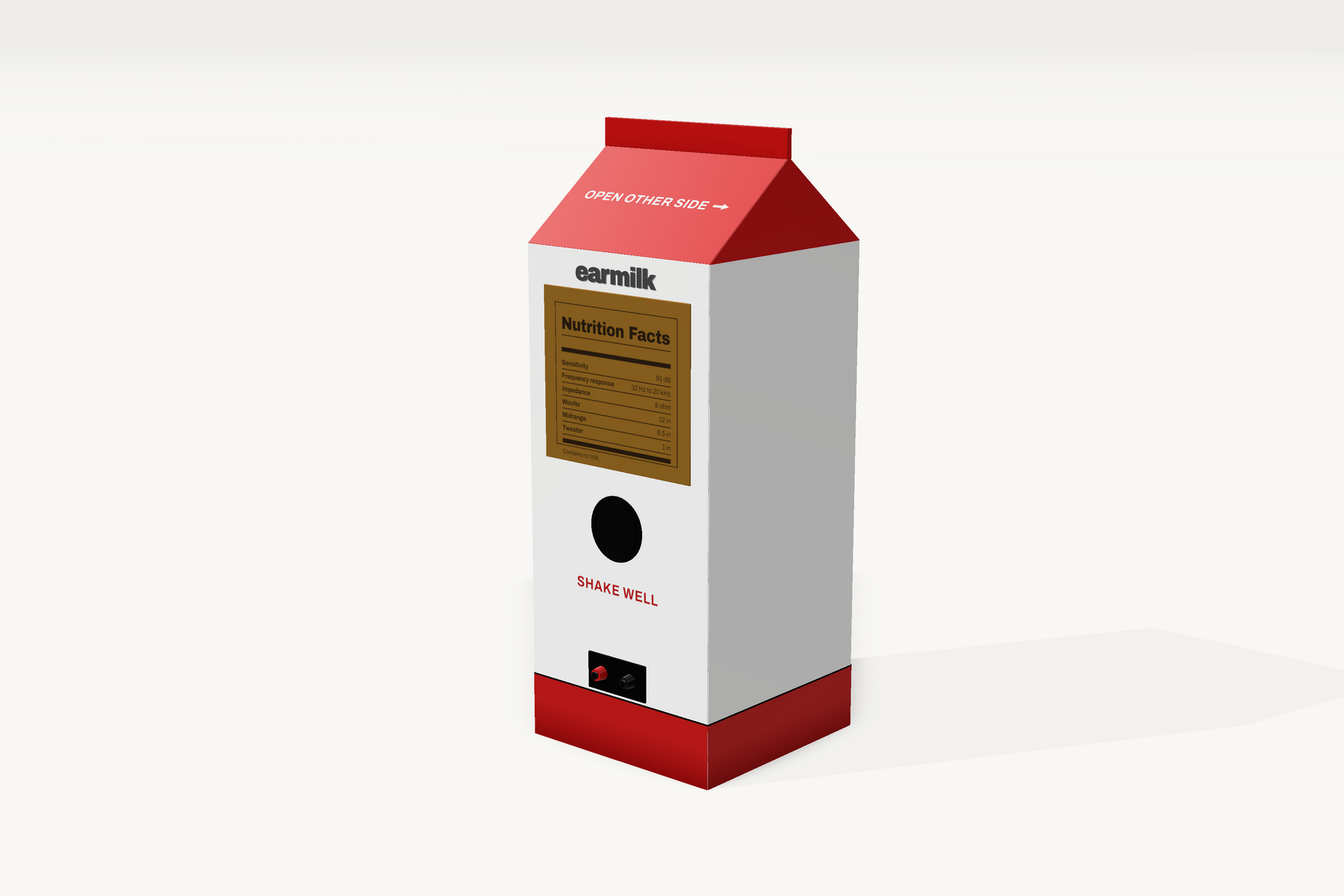
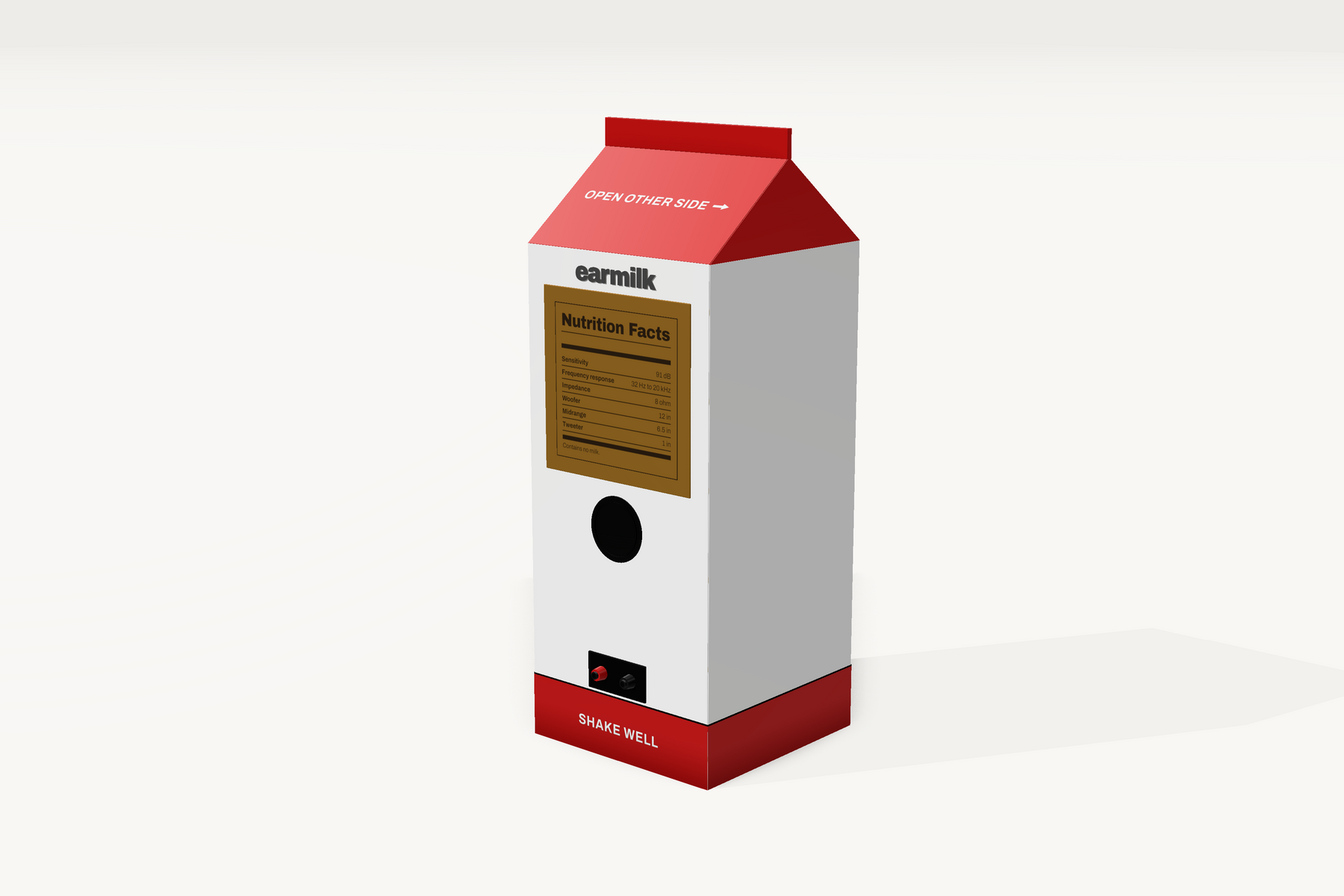
v11: SHAKE WELL on the plinth, the Facts footnote inside its border, and the camera carries
Only OPEN OTHER SIDE and SHAKE WELL stay; SHAKE WELL moves onto the plinth's back face, reversed in the body colour. The engraved panel is 266 x 260 so "Contains no milk." sits inside the border with 14 mm padding all round, and the bronze plate grows with it. The hero pair toed in from a lower, longer camera; the window mullion gone from both rooms; the close-up aimed clear of the top lip and the mid's flange; the crate camera lower and its base board's end-grain fringe fixed. No critic round: the cap for this look is reached. Canvas at version 14.

Claude-Session: https://claude.ai/code/session_016Hs9fK3h2VwVeRXpa18b1z

Changed region(s): [[0.4044, 0.3392, 0.5289, 0.555], [0.4356, 0.8017, 0.4978, 0.8325], [0.4356, 0.6475, 0.4978, 0.6783]]

diff --git a/prompts/shot-04-v11.md b/prompts/shot-04-v11.md
@@ -1,0 +1,41 @@
+# Shot 04 · Back · v11
+
+v11: SHAKE WELL moves onto the plinth's back face, reversed in white; the Facts border now encloses "Contains no milk." with 14 mm padding all round, and the bronze plate grows to match (z 484 to 796). Nothing else printed. No critic round.
+v10: the Nutrition Facts are an engraved bronze plate on the finish (the Facts plus a 26 mm margin, 3 mm thick, 1.5 mm proud, the engraving dark with patina); the wordmark above it is the same cast metal letters as the front; SHAKE WELL sits under the port in the accent colour and OPEN OTHER SIDE on the back slope, both spec now. No critic round: spec choices, and the cap for this look is reached.
+v9: the bare birch field is now just the Nutrition Facts panel with a 26 mm margin all round (x 36 to 354, z 504 to 796); the port, the binding posts and the engraved wordmark sit on the white finish outside it, the wordmark at baseline z 812, the post plate at z 150 so it clears the plinth's shadow line. The full-height field stays available as an option with its bottom lifted to z 140 so its margin above the plinth matches its sides. No critic round: a spec choice for the owner, and the cap for this look is reached.
+v8: the plate is gone. The wordmark on the plinth is cast metal letters standing on the lacquer with no plate behind them, the way the lettering sits on a La Marzocco machine: 44 mm type size, 2.5 mm proud, polished faces, satin sides. Nothing else changed.
+v7: after critic round 1 on v6 (shot 01's note that the badge read as grey type on a grey rectangle at room distance). The badge is now a chrome rim around a dark inset field with polished raised letters, the way a cast espresso-machine badge reads; nothing else changed.
+v6: the 2026-10-02 direction. The finished white back around the bare birch panel (now z 113 to 830), the wordmark engraved above the Nutrition Facts, the red plinth across the bottom with the shadow line. Camera and light as v5.
+v5: no change from v4. Straight-on at mid-height is the brief; the round 4 asks are surfaces and a contact core, which go to the photoreal pass.
+v4: the locked look from the 2026-10-01 amendments: lids in the print colour on Whole, 2% and Skim, a printed 110 mm base band carrying the wordmark on the front and the right side, nothing printed under the gable. The stand and the owner's panel are optional and not in this shot. The band shows on the back only as the 40 mm frame below the window.
+v3: after critic round 2. Contact decal tightened to the footprint, occlusion pass, glossier board, crimp lines on the fin, 2x supersampling so the engraved rows resolve. Straight-on is the brief.
+v2: after critic round 1. Camera raised to look slightly down so the gable's back slope shows and the carton has volume; key from upper right; contact shadow; metal response on the port flange and the posts.
+v1: first brief, from the README shot list.
+
+**Proves:** the bare birch window inside the sleeve frame, with the engraved Nutrition Facts above the port and the posts below.
+
+## Scene
+- One speaker, **Whole**, seen from directly behind.
+- Even, soft light so the engraving is legible; a little rake so the wood's surface reads as wood. The README asks for birch end-grain at the back window.
+
+## Camera
+- Straight on from behind, centred on the window, camera at about the window's centre height (`z` ≈ 420 mm).
+- A long lens look (85 to 100 mm) so the back panel stays rectangular and the panel's text is undistorted.
+
+## Must show
+- The sleeve's back frame (white board) around the birch window: 26 mm sides, 40 mm bottom, 62 mm top.
+- The engraved panel, 266 × 240 mm with its top at 770 mm, legible: copy and proportions in `copy/label.md`, engraved version.
+- The round port, ø 100 at 405 mm.
+- The binding post plate, 128 × 64 at 144 mm, with red and black posts.
+- The birch face colour #EAD8B0 with engraving in #6B5232.
+
+## Must not
+- Anything in the list in `prompts/README.md`.
+- Use the printed label's longer copy on the engraving.
+
+## Text-to-image form
+Constant block, then: The back of one of them, straight on. The white printed board is a frame around a large bare Baltic birch window; engraved into the wood near the top is a small Nutrition Facts panel in dark brown, with a round port below it and a plate with red and black binding posts near the floor. Even soft studio light, a slight rake across the wood grain, long lens. Photoreal, matte board.
+
+## Acceptance
+- The engraved panel is readable at the render's size and matches the engraved copy.
+- The frame margins and the window proportions match `spec/geometry.md`.

diff --git a/README.md b/README.md
@@ -45,7 +45,8 @@ Made on the v4 and v5 renders. They stand with the Decisions above and replace t
 - **Shots.** 07 (sleeve swap) is retired. 02 (two rooms) loses the swap that was its point; it is rendered meanwhile with the same Whole in both rooms and needs a new brief. In 03 the fold of the lid's die-cut becomes the finish's edge at the mouth; in 04 the sleeve frame becomes the finished back around the birch panel.
 - Prices: `[PAIR PRICE]` and `[CRATE PRICE]` stay open. `[SLEEVE PRICE]` and `[STAND PRICE]` are gone.
 - **Back panel, contained** *(later the same day)*. The bare birch field is the Nutrition Facts panel plus a 26 mm margin all round: `x` 36 → 354, `z` 504 → 796. The port, the binding posts and the engraved wordmark sit on the finish outside it; the wordmark is engraved through the lacquer and ink-filled in the panel's brown, baseline at `z` 812; the post plate moves up to `z` 150 so it clears the plinth's shadow line. The full-height field (`x` 26 → 364, `z` 140 → 830, the same 26 margin at the sides and above the plinth) is kept as an option; both are rendered in `explore/2026-10-02/r4-*`.
-- **Marks** *(later the same day)*. Two carton lines are spec: OPEN OTHER SIDE with its arrow on the back slope of the gable, 27 mm caps in the gable's other colour (board colour on the white flavours, accent on Chocolate and Oat), and SHAKE WELL on the back under the port, 26 mm caps in the accent colour. Everything else in `explore/` stays a proposal.
+- **Marks** *(later the same day)*. Two carton lines are spec and nothing else is printed: OPEN OTHER SIDE with its arrow on the back slope of the gable, 27 mm caps in the gable's other colour (board colour on the white flavours, accent on Chocolate and Oat), and SHAKE WELL on the plinth's back face, 26 mm caps reversed in the body colour. The other proposals in `explore/` are dropped.
+- **Facts border** *(later the same day)*. The engraved panel is 266 × 260: "Contains no milk." sits inside the border with the same 14 mm padding as every other side. The bronze plate grows with it to `z` 484 → 796.
 - **Bronze plate** *(later the same day)*. The Nutrition Facts are an engraved bronze plate, not bare birch: the Facts panel plus a 26 mm margin (x 36 → 354, z 504 → 796), 3 mm thick, 1.5 mm proud of the finish, the engraving dark with patina. The wordmark above it is the same cast metal letters as the front (44 mm, 2.5 mm proud, centred at z 826). Bare birch now shows only in the section views.
 - **Shot 02, rebriefed.** The two rooms are the same pair in two homes, years apart: a bright first apartment, then a darker older house. The point is no longer the swap but that the speaker outlives its rooms, the finish fixed and the birch back ageing with the house.
 
@@ -58,7 +59,7 @@ Floorstander — square plan, gable-top.
 - Front drivers (centers from floor, on the baffle centerline): 12 in woofer at 290 (frame ø ~310); 6.5 in mid at 690 (frame ø ~170).
 - Tweeter: 1 in dome with a small faceplate (≤ 62 mm). Faceplate plane is 170 back from the front face; dome center height 903.5.
 - Bowl: mouth is an ellipse on the front slope panel, 211 wide × 118 long along the slope, centered 79 up the 246 slope (from 20 to 138). Throat ø 66 around the faceplate at the 170 setback. Surface is a smooth loft from mouth ellipse to throat circle — no flats, no edges. As drawn the lower lip holds the pattern to ~12° below the tweeter axis and the upper lip to ~37° above. Deeper bowl = narrower; wider mouth = wider.
-- Back (bare birch window inside the sleeve frame): window x 26→364, z 40→798. Engraved Nutrition Facts panel 266 wide × 240 tall, top at z 770. Round port ø ~100 centered at z 405. Binding posts on a 128 × 64 plate centered at z 144.
+- Back (bare birch window inside the sleeve frame): window x 26→364, z 40→798. Engraved Nutrition Facts panel 266 wide × 240 tall, top at z 770 *(266 × 260 since 2026-10-02)*. Round port ø ~100 centered at z 405. Binding posts on a 128 × 64 plate centered at z 144.
 - Sleeve: tube 390 × 390 × 860 (open top and bottom, die-cut for woofer and mid, back panel is a frame), plus a lid covering gable + fin, die-cut at the bowl mouth. Both lock at the back seam. Board: heavy carton board / SBS, target ~1.2–1.5 mm; whether it holds a crisp fold at this size is an open test. *Amended 2026-10-02: no sleeve. The outer dimensions stay; the skin is the finish.*
 
 Pint — 100 × 100 plan, body 200, gable 35, fin 12. Single full-range ø ~68 at 95; tiny bowl at the top. Crate 340 × 250 × 130, 2 × 3.

diff --git a/prompts/shot-01-v11.md b/prompts/shot-01-v11.md
@@ -1,0 +1,38 @@
+# Shot 01 · Hero pair in a room · v11
+
+v11: the pair toed in 0.2 rad toward the listening spot and the camera lower on a 60 mm lens from a step further back, so the two read as a pair (critic rounds 1 to 3 on the finish look). No critic round: the cap for this look is reached.
+v8: the plate is gone. The wordmark on the plinth is cast metal letters standing on the lacquer with no plate behind them, the way the lettering sits on a La Marzocco machine: 44 mm type size, 2.5 mm proud, polished faces, satin sides. Nothing else changed.
+v7: after critic round 1 on v6 (shot 01's note that the badge read as grey type on a grey rectangle at room distance). The badge is now a chrome rim around a dark inset field with polished raised letters, the way a cast espresso-machine badge reads; nothing else changed.
+v6: the 2026-10-02 direction. No sleeve: the cabinet is birch finished in Whole's colours, white body, red gable and fin, a built-in red plinth with a shadow line, and a cast metal badge on the plinth's front. Nothing on the sides. Camera and light as v5.
+v5: after critic round 4. Fill and bounce cut and the sun raised so the pair's cast shadows read as the same light that makes the wall wedge; the chair moved clear of the left speaker's silhouette. Surface and penumbra asks stay with the photoreal pass.
+v4: the locked look from the 2026-10-01 amendments: lids in the print colour on Whole, 2% and Skim, a printed 110 mm base band carrying the wordmark on the front and the right side, nothing printed under the gable. The stand and the owner's panel are optional and not in this shot. Camera note from critic round 3: the window wall moved out so the room's corner line clears the left speaker.
+v3: after critic round 2. Ambient occlusion pass; glossier coated board so the faces pick up the room; fold lines at the ridge and the lid's bottom edge and crimp lines on the fin; lighter shaded cones with highlights on cap and surround; reflective floor; finer shadow maps; rendered at 2x and downscaled. The sun stays on the left window because the pair faces the room.
+v2: after critic round 1. Sun stronger and fills cut back so the cartons throw hard shadows that agree with the wall light; contact shadows; warm floor bounce; skirting; a wooden chair by the back wall replaces the sofa arm; camera recentred on the pair; coated-board sheen and rounded board edges; driver baskets rebuilt with flange, screws and a glossy surround.
+v1: first brief, from the README shot list.
+
+**Proves:** a serious speaker and a half gallon of milk at the same time, at room scale.
+
+## Scene
+- Two speakers, both **Whole**, about 2 m apart on the floor of a living room, facing the room.
+- A chair or a sofa arm in frame for scale. Nothing else that competes with the pair.
+- Late-afternoon window light from one side; soft, long shadows across the floor.
+
+## Camera
+- Height 1.2 m. A ~50 mm look. Three-quarter view so the front and one side of each speaker show.
+- Both speakers fully in frame, fin to floor contact. Do not crop the fin.
+
+## Must show
+- The full silhouette of both: fin, ridge, both slopes, both drivers, the bowl mouth reading as a dark ellipse on the front slope.
+- Fold creases at the gable catching the window light.
+- The front wordmark on both; the side wordmark on the visible side.
+
+## Must not
+- Anything in the list in `prompts/README.md`.
+
+## Text-to-image form
+Constant block, then: Two of them in a living room, white board with the red wordmark, standing about two metres apart on a wooden floor, the arm of a sofa at the edge of the frame for scale, late-afternoon sun through a window on one side, soft long shadows, photographed from a three-quarter angle with the camera at 1.2 m and a 50 mm lens. Photoreal, physically plausible materials, matte board, no grille.
+
+## Acceptance
+- Reads as a milk carton at first glance and as a speaker at second.
+- The pair are identical and match `spec/geometry.md`: 2.7 widths tall from floor to fin.
+- Light and shadow are consistent between the two speakers and the room.

diff --git a/prompts/shot-06-v11.md b/prompts/shot-06-v11.md
@@ -1,0 +1,37 @@
+# Shot 06 · Mixed crate on a desk · v11
+
+v11: the crate camera a hand lower, and the crate's base board shows long grain on its front edge instead of the end-grain fringe (critic round 2). No critic round: the cap for this look is reached.
+v8: the plate is gone. The wordmark on the plinth is cast metal letters standing on the lacquer with no plate behind them, the way the lettering sits on a La Marzocco machine: 44 mm type size, 2.5 mm proud, polished faces, satin sides. Nothing else changed.
+v7: after critic round 1 on v6 (shot 01's note that the badge read as grey type on a grey rectangle at room distance). The badge is now a chrome rim around a dark inset field with polished raised letters, the way a cast espresso-machine badge reads; nothing else changed.
+v6: the 2026-10-02 direction. The pints carry the finish, the plinth and a badge scaled with them. Camera and light as v5.
+v5: after critic round 4. Camera higher, closer and nearer the wall's axis so the crate's inside and the pints' faces show and the planks run with the wall; the rim still crops the woofers, which is the crate's spec height.
+v4: the locked look from the 2026-10-01 amendments: lids in the print colour on Whole, 2% and Skim, a printed 110 mm base band carrying the wordmark on the front and the right side, nothing printed under the gable. The stand and the owner's panel are optional and not in this shot. The pints carry the lid and band too. Desk enlarged and the wall moved back so the set does not end in frame.
+v3: after critic round 2. Camera lowered to about 20 degrees on a 70 mm lens from further back so the crate takes less of the frame; occlusion pass; pint throats closed in the throat colour instead of black so they stop reading as eyes; crate boards with end grain on the rim; 2x supersampling. Pints stand on the crate floor and the rim is spec height, so the drivers stay partly behind it.
+v2: after critic round 1. Contact shadows under the crate and each pint; key up-left; camera raised so more of each pint shows over the rim (the rim height is spec, so the drivers stay partly behind it); crate grain turned to run along the boards.
+v1: first brief, from the README shot list.
+
+**Proves:** the pint exists as a desk-size version of the same carton, six to a crate. The pint is parked: this is the only shot it appears in, and its electronics are not designed, so the crate is a plain crate.
+
+## Scene
+- One crate, 340 × 250 × 130 mm, on a desk, holding six pints 2 × 3. Pints are 100 × 100 mm, 247 mm tall, standing about 117 mm proud of the rim.
+- Six pints, five flavors, so one flavor repeats. Which one is not specified; pick one and name it in the log.
+- Desk objects for scale are fine if they do not compete.
+- Daylight or desk-lamp light.
+
+## Camera
+- Three-quarter from slightly above desk height, close enough that the crate fills most of the frame.
+
+## Must show
+- Each pint as the floorstander's carton at pint proportions per `spec/geometry.md`: gable, fin, one small full-range driver on the front, a tiny bowl at the top.
+- The crate as a simple open crate. No ports, lights, cables or controls on it.
+
+## Must not
+- Anything in the list in `prompts/README.md`.
+- Invent electronics, a charging dock, or a display on the crate.
+
+## Text-to-image form
+Pint-scale constant block: the same milk-carton speaker at the size of a pint, 100 mm square and 247 mm tall with its gable and fin, one small driver on the front, a tiny bowl opening on the slope, matte printed board with the lowercase wordmark. Then: Six of them standing in a plain open crate on a desk, two by three, standing well proud of the crate's rim, in five colorways with one repeated, three-quarter view from slightly above, daylight. Photoreal, matte board.
+
+## Acceptance
+- The pints read as the same object as the floorstander, squatter, as a pint is next to a half gallon.
+- The crate reads as a crate and nothing more.

diff --git a/prompts/shot-03-v11.md b/prompts/shot-03-v11.md
@@ -1,0 +1,38 @@
+# Shot 03 · Bowl close-up · v11
+
+v11: camera a hair further back on a 95 mm lens, aimed so both the top lip and the mid's flange stay out of frame (critic rounds 1 to 3). No critic round: the cap for this look is reached.
+v8: the plate is gone. The wordmark on the plinth is cast metal letters standing on the lacquer with no plate behind them, the way the lettering sits on a La Marzocco machine: 44 mm type size, 2.5 mm proud, polished faces, satin sides. Nothing else changed.
+v7: after critic round 1 on v6 (shot 01's note that the badge read as grey type on a grey rectangle at room distance). The badge is now a chrome rim around a dark inset field with polished raised letters, the way a cast espresso-machine badge reads; nothing else changed.
+v6: the 2026-10-02 direction. The gable is finished birch, not a die-cut lid: the mouth edge is the finish's edge on the carved bowl, no crease above it. Camera and light as v5.
+v5: after critic round 4. The bowl no longer receives the key's shadow map, so the lip's hard terminator (read as a kink) becomes the smooth falloff of the loft; camera tilted down a hair so the top lip leaves the frame and more of the white body shows below.
+v4: the locked look from the 2026-10-01 amendments: lids in the print colour on Whole, 2% and Skim, a printed 110 mm base band carrying the wordmark on the front and the right side, nothing printed under the gable. The stand and the owner's panel are optional and not in this shot. Camera note from critic round 3: the camera offset a few degrees so the faceplate shows its edge.
+v3: after critic round 2. Key steeper and more frontal so the slope reads brighter than the front; occlusion pass; glossier board so the edge and faces separate; the side wordmark sliver cropped out; 2x supersampling. The ground stays #F8F7F4 by spec.
+v2: after critic round 1. One key from above-left with the environment as the white card; the faceplate made reflective so it is not a void; camera pulled back so the wordmark baseline and the top edge clear the frame.
+v1: first brief, from the README shot list.
+
+**Proves:** the bowl is a real carved waveguide with a tweeter at its throat, and the lid is die-cut board, not paint.
+
+## Scene
+- One speaker, **Whole**. The bowl interior carries the Whole throat gradient, #C62828 at the mouth to #8E1B1B at the throat.
+- Studio or window light that rakes across the slope so the bowl's concavity reads.
+
+## Camera
+- Front three-quarter at gable height, roughly `z` 900 to 1000 mm, close enough that the mouth fills much of the frame.
+- Focus on the throat and the dome. Shallow depth of field is fine; the dome must be sharp.
+
+## Must show
+- The smooth loft from the mouth ellipse to the throat circle: no flats, no edges.
+- The painted gradient, light at the mouth, dark at the throat.
+- The faceplate ring at the throat and the dome, 170 mm back.
+- The fold of the lid's die-cut at the mouth edge: the board's cut edge and its thickness, the lid's crease above, the board sitting on the birch.
+
+## Must not
+- Anything in the list in `prompts/README.md`.
+- Show bare birch beyond the cut edge of the board at the mouth.
+
+## Text-to-image form
+Constant block, then: Close up on the top of one of them, white board with the red print, three-quarter from the front at the height of the gable, looking into the elliptical opening on the slope: a smooth concave painted bowl, red at its rim shading to a deep dark red at the throat, where a small one-inch dome tweeter sits in a round faceplate, 170 mm back. The opening's edge shows the cut thickness of the printed board and the fold of the lid above it. Shallow depth of field, the dome sharp. Photoreal, matte board, no grille.
+
+## Acceptance
+- The bowl reads as concave and smooth, and the tweeter reads as set back inside it, facing forward.
+- The die-cut edge reads as board, with thickness.

diff --git a/prompts/shot-02-v11.md b/prompts/shot-02-v11.md
@@ -1,0 +1,40 @@
+# Shot 02 · Two rooms, years apart · v11
+
+v11: the window's mullion removed in both rooms so no bar crosses the hero face (critic rounds 1 to 3). The brief is the rebriefed one: the same pair in two homes, years apart. No critic round: the cap for this look is reached.
+v8: the plate is gone. The wordmark on the plinth is cast metal letters standing on the lacquer with no plate behind them, the way the lettering sits on a La Marzocco machine: 44 mm type size, 2.5 mm proud, polished faces, satin sides. Nothing else changed.
+v7: after critic round 1 on v6 (shot 01's note that the badge read as grey type on a grey rectangle at room distance). The badge is now a chrome rim around a dark inset field with polished raised letters, the way a cast espresso-machine badge reads; nothing else changed.
+v6: the 2026-10-02 direction. No sleeve, so no skin change: both rooms show the same Whole, finished white and red with the plinth and the badge, until the shot is rebriefed (its point was the swap). Camera and light as v5.
+v5: after critic round 4. The old room's low sun raised so the fin's shadow lands on the slope and not across the front between the spout and the mid driver. Whole by day and Oat by night is the shot's point and stays.
+v4: the locked look from the 2026-10-01 amendments: lids in the print colour on Whole, 2% and Skim, a printed 110 mm base band carrying the wordmark on the front and the right side, nothing printed under the gable. The stand and the owner's panel are optional and not in this shot.
+v3: after critic round 2. Occlusion pass, fold and crimp lines, glossier board, shaded cones, a cool sky ambient in the old room so the shadows are not sepia, chair moved clear of the carton's edge, 2x supersampling. The Oat print is dark brown by spec.
+v2: after critic round 1. Windows moved to the front-left so the sun lights the faces the camera sees; a chair in each room for scale (the room changes, the speaker does not); contact shadows; floor bounce; driver hardware and board materials rebuilt. The colour change between a and b is the point of the shot and stays.
+v1: first brief, from the README shot list.
+
+**Proves:** the sleeve argument. One object, one floor spot, two skins, years apart. It must read as the same speaker that changed its skin, not as two products.
+
+## Frames
+- **a.** **Whole** in a bright apartment: white walls, daylight, a new floor.
+- **b.** **Oat** in a darker, older room: warmer and lower light, older floor and walls, the same floor spot.
+
+## Scene
+- One speaker, not the pair. Same position on the floor in both frames.
+- The room changes around it; the speaker's position, size and camera do not.
+
+## Camera
+- Identical in both frames: same height, lens, framing and distance. Lock it before rendering either frame.
+- Three-quarter view, the speaker fully in frame.
+
+## Must show
+- Pixel-matched silhouette between a and b. Overlaying the two frames should align the speaker exactly.
+- The sleeve colour and the room are the only differences.
+
+## Must not
+- Anything in the list in `prompts/README.md`.
+- Move the camera, the speaker, or change its size between frames.
+
+## Text-to-image form
+Constant block, then, for a: One of them in a bright apartment, white board with the red wordmark, daylight from a large window, white walls, a light wood floor, three-quarter view. For b: The same speaker in the same spot years later, now unbleached oat-coloured board with a dark brown wordmark, in an older room with warm low lamplight, a darker worn floor and aged walls, the camera unchanged.
+
+## Acceptance
+- A viewer sees one object that changed its skin, not two speakers.
+- Overlay test passes.

diff --git a/prompts/shot-05-v11.md b/prompts/shot-05-v11.md
@@ -1,0 +1,38 @@
+# Shot 05 · Five flavors lineup · v11
+
+v11: no change to the lineup itself; re-rendered with the back-of-plinth mark and the taller Facts plate, neither of which shows from the front. No critic round: the cap for this look is reached.
+v8: the plate is gone. The wordmark on the plinth is cast metal letters standing on the lacquer with no plate behind them, the way the lettering sits on a La Marzocco machine: 44 mm type size, 2.5 mm proud, polished faces, satin sides. Nothing else changed.
+v7: after critic round 1 on v6 (shot 01's note that the badge read as grey type on a grey rectangle at room distance). The badge is now a chrome rim around a dark inset field with polished raised letters, the way a cast espresso-machine badge reads; nothing else changed.
+v6: the 2026-10-02 direction. Five finishes: the gable and plinth in the accent colour on Whole, 2% and Skim, one colour with an accent plinth on Chocolate and Oat; the badge on every plinth; nothing on the sides. Camera and light as v5.
+v5: after critic round 4. Camera pulled back to 11.5 m on a 140 mm lens so the end cartons stop fanning and show the same faces as the middle one; same framing.
+v4: the locked look from the 2026-10-01 amendments: lids in the print colour on Whole, 2% and Skim, a printed 110 mm base band carrying the wordmark on the front and the right side, nothing printed under the gable. The stand and the owner's panel are optional and not in this shot.
+v3: after critic round 2. Reflective studio sweep, occlusion pass, camera raised a few degrees so the slopes and the fin read as a gable on the white units, fold lines on the lid, glossier board, 2x supersampling.
+v2: after critic round 1. Key moved to upper-left at about 45 degrees with a quarter fill from the right so the fin, slope and front separate on the white units; contact shadows; driver hardware rebuilt so the cones shade.
+v1: first brief, from the README shot list.
+
+**Proves:** flavor is the colorway only. Five identical objects, five skins.
+
+## Scene
+- Five speakers in flavor order, left to right: **Whole, 2%, Skim, Chocolate, Oat**.
+- Flat ground, #F8F7F4, no horizon line visible or a very soft one. Equal spacing between all five.
+- Soft, even studio light.
+
+## Camera
+- Straight on or a very slight three-quarter, camera at about half the speaker's height (`z` ≈ 530 mm).
+- Long lens so all five are the same size and the row stays parallel to the frame.
+
+## Must show
+- Five identical silhouettes and driver layouts; only board colour, print colour and throat colour change.
+- Each wordmark in its flavor's print colour; Chocolate and Oat on their whole-board colours.
+- The bowl mouth on each, with each flavor's throat gradient where it is visible.
+
+## Must not
+- Anything in the list in `prompts/README.md`.
+- Vary the size, spacing or pose between the five.
+
+## Text-to-image form
+Constant block, then: Five of them in a row on a flat pale off-white ground, equally spaced, straight on, soft even studio light, long lens. Left to right: white board with a red wordmark; white board with a blue wordmark; white board with a light-blue wordmark; a dark brown board with a cream wordmark; an unbleached oat-coloured board with a dark brown wordmark. The speakers are otherwise identical. Photoreal, matte board, no grille.
+
+## Acceptance
+- A viewer sees one product in five colorways, not five products.
+- Hex values read true against `spec/colorways.json` under the neutral light.

diff --git a/spec/geometry.md b/spec/geometry.md
@@ -93,9 +93,9 @@ Black paper cones. No grilles. The sleeve's die-cuts equal the frame diameters (
 | Birch window (bare, inside the sleeve frame) | `x` 26 → 364, `z` 40 → 798, so 338 × 758. *Amended 2026-10-02: a bare birch field in the finished back. Default, contained: the Facts panel plus a 26 margin all round, `x` 36 → 354, `z` 504 → 796 (318 × 292); the port, the posts and the engraved wordmark sit on the finish outside it. Option, full: `x` 26 → 364, `z` 140 → 830 (338 × 690), the same 26 margin at the sides and above the plinth's shadow line.* |
 | Sleeve frame margins (derived) | 26 each side, 40 at the bottom, 62 at the top. *2026-10-02: 26 each side, the plinth and its shadow line below, 30 at the top.* |
 | Engraved wordmark (amended 2026-10-02) | "earmilk", Archivo Black, 36 mm type size, centred on `x = 195`. With the contained field: on the finish above it, baseline at `z = 812`, engraved through the lacquer and ink-filled in the panel's brown. With the full field: inside it, baseline at `z = 788`. *Superseded the same day: the back wordmark is the same cast metal letters as the front, 44 mm type, 2.5 proud, centred on `x = 195` at `z = 826`.* |
-| Bronze plate (2026-10-02, replaces the bare birch field as the default) | the Facts panel plus a 26 margin: `x` 36 → 354, `z` 504 → 796 (318 × 292), 3 thick, 1.5 proud of the finish, 3 corner radius; the Facts engraved into it, dark with patina. The port, the posts and the letters sit on the finish outside it. |
-| Marks (spec since 2026-10-02) | OPEN OTHER SIDE with its arrow, 27 mm caps, centred on the back slope, in the gable's other colour. SHAKE WELL, 26 mm caps, centred on the back at `z = 300`, in the accent colour. |
-| Engraved Nutrition Facts panel | 266 × 240 with its top at `z = 770`: `x` 62 → 328, `z` 530 → 770. Copy and proportions in `copy/label.md`, engraved version. |
+| Bronze plate (2026-10-02, replaces the bare birch field as the default) | the Facts panel plus a 26 margin: `x` 36 → 354, `z` 484 → 796 (318 × 312), 3 thick, 1.5 proud of the finish, 3 corner radius; the Facts engraved into it, dark with patina. The port, the posts and the letters sit on the finish outside it. |
+| Marks (spec since 2026-10-02) | OPEN OTHER SIDE with its arrow, 27 mm caps, centred on the back slope, in the gable's other colour. SHAKE WELL, 26 mm caps, centred on the plinth's back face at `z = 55`, reversed in the body colour. Nothing else is printed. |
+| Engraved Nutrition Facts panel | 266 × 240 with its top at `z = 770`: `x` 62 → 328, `z` 530 → 770. Copy and proportions in `copy/label.md`, engraved version. *Amended 2026-10-02: 266 × 260, `z` 510 → 770, so "Contains no milk." sits inside the border with the same 14 mm padding as every other side.* |
 | Port | round, ø ~100, centre (195, 390, 405): `z` 355 → 455. As drawn: a 92 bore in a 112 flange. |
 | Binding post plate | 128 × 64, centre `z = 144`: `x` 131 → 259, `z` 112 → 176. As drawn: dark plate, two posts ø 24 at ±32 from the centre; seen from behind, red on the left, black on the right. *Amended 2026-10-02: centre `z = 150` (`z` 118 → 182) so the plate clears the plinth's shadow line; inside the full field, centre `z = 185`.* |
 | Vertical gaps (derived) | 75 between the panel's bottom and the port's top; 179 between the port's bottom and the plate's top. |

diff --git a/CLAUDE.md b/CLAUDE.md
@@ -40,4 +40,4 @@ Read `README.md` first. It is the handoff and the brief. The canvas it links to 
 ## Commits
 
 - Commit a render together with the prompt version that produced it and its critic log row.
-- The canvas is edited on the canvas, not here. If the canvas and this repo disagree, say so and ask which is right; do not silently update either. The canvas carries the 2026-10-02 direction since its version 10, the cast-letter wordmark (no plate) since version 11, the contained back panel since version 12, and the bronze plate, the back letters and the two spec marks since version 13: no sleeve, the colour a finish, the plinth, the metal letters, the engraved back wordmark, the Sleeves board redrawn as Finish, and the Facts row changed to Finish. Its copy changes are drafts (marked in `copy/hero.md`) until the owner approves them.
+- The canvas is edited on the canvas, not here. If the canvas and this repo disagree, say so and ask which is right; do not silently update either. The canvas carries the 2026-10-02 direction since its version 10, the cast-letter wordmark (no plate) since version 11, the contained back panel since version 12, the bronze plate, the back letters and the two spec marks since version 13, and SHAKE WELL on the plinth with the Facts footnote inside its border since version 14: no sleeve, the colour a finish, the plinth, the metal letters, the engraved back wordmark, the Sleeves board redrawn as Finish, and the Facts row changed to Finish. Its copy changes are drafts (marked in `copy/hero.md`) until the owner approves them.

diff --git a/copy/hero.md b/copy/hero.md
@@ -40,7 +40,7 @@ earmilk. Lowercase, Archivo Black, tight tracking. Never a flavor word under it.
 
 ## Back
 
-- Bare birch where the sleeve opens. Nutrition Facts engraved above the port, binding posts below. *(draft 2026-10-02: "An engraved bronze plate carries the Nutrition Facts. The wordmark is cast metal above it; the port and the posts sit on the finish below, with SHAKE WELL where a carton would say so.")*
+- Bare birch where the sleeve opens. Nutrition Facts engraved above the port, binding posts below. *(draft 2026-10-02: "An engraved bronze plate carries the Nutrition Facts. The wordmark is cast metal above it; the port and the posts sit on the finish below, and the plinth says SHAKE WELL.")*
 - The sleeve's back panel is a frame; it locks around the window, so the wood is what ages. *(draft 2026-10-02: "The finish stops at the plate, so the bronze is what ages.")*
 
 ## Pint crate (parked)
@@ -68,4 +68,4 @@ On the right side above the band. Placeholder copy from the exploration; the hea
 ## Marks (spec since 2026-10-02)
 
 - OPEN OTHER SIDE, with the arrow, on the back slope of the gable. It points at the bowl.
-- SHAKE WELL, on the back under the port.
+- SHAKE WELL, on the plinth's back face, reversed in the body colour.

diff --git a/critic/LOG.md b/critic/LOG.md
@@ -94,3 +94,7 @@ v9 renders the contained birch field (the Facts panel plus a 26 mm margin, the w
 ## v10 of the back: no critic round
 
 v10 renders the back as decided on 2026-10-02: an engraved bronze plate for the Facts, the wordmark as cast letters like the front, SHAKE WELL under the port and OPEN OTHER SIDE on the back slope. Spec choices, and the cap for this look is reached, so no round was run.
+
+## v11: the camera carries applied, no critic round
+
+v11 applies the small notes the three rounds on the finish look agreed on: the hero pair toed in from a lower, longer camera; the window mullion gone from both rooms; the close-up aimed to clear the top lip and the mid's flange; the crate camera lower and its base board's end-grain fringe fixed. It also carries the owner's calls: SHAKE WELL on the plinth's back, and the Facts border enclosing its footnote with even padding. The cap for this look is reached, so no round was run; the next critic round waits for the photoreal pass or a new look.

diff --git a/copy/label.md b/copy/label.md
@@ -3,7 +3,7 @@
 Two versions exist and they differ on purpose.
 
 - The **printed label** is the label artboard on the canvas ("Nutrition Facts"). It is a separate deliverable and is not printed on the speaker.
-- The **engraved panel** is the shorter version cut into the birch back window, above the port, 266 × 240 mm.
+- The **engraved panel** is the shorter version cut into the birch back window, above the port, 266 × 240 mm. *2026-10-02: cut into the bronze plate on the back, 266 × 260, the footnote inside the border with 14 mm padding on every side.*
 
 Both follow the FDA Nutrition Facts proportions: heavy title, a 10 px rule, 1 px row rules, bold labels, right-aligned values. Archivo Black for the title and the headline figure, Archivo for everything else. All figures are targets, not measurements; the asterisk and its footnote stay.
 
